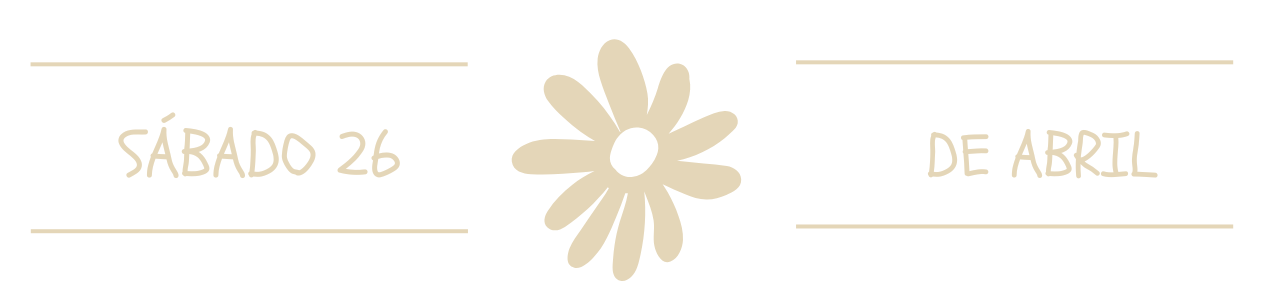
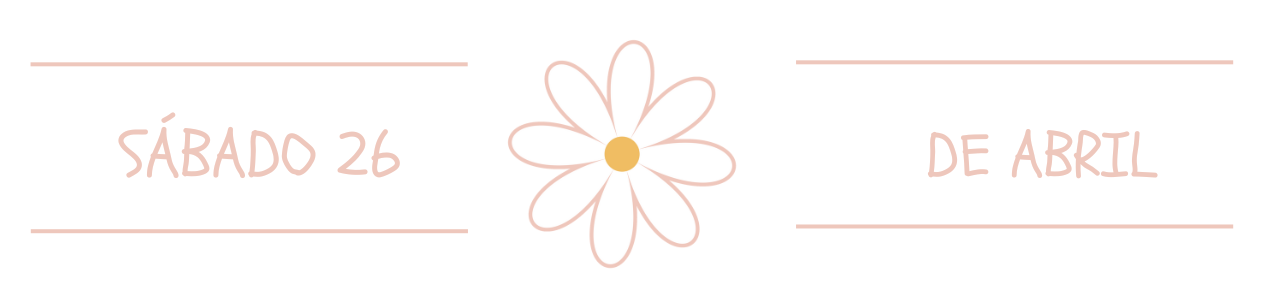
ac

Changed region(s): [[0.4011, 0.1169, 0.5862, 0.9058]]

diff --git a/style.css b/style.css
@@ -1,6 +1,6 @@
 :root {
     --color-principal:#fefdfa;
-    --color-secundario:#E4D6B8;
+    --color-secundario:#eec6bc;
     --color-terciario:#E4D6B8;
     --font-principal:'Schoolbell', cursive;
     --font-secundaria:'Nunito Sans', sans-serif;
@@ -187,7 +187,7 @@ audio::-webkit-media-controls-current-time-display {
  .boton2 {
     border: 1px solid var(--color-principal);
     background-color: var(--color-principal);
-    color: var(--color-secundario);
+    color: var(--color-terciario);
     padding: 10px 30PX;
     text-decoration: none;
     margin-top:0px;
@@ -203,7 +203,7 @@ audio::-webkit-media-controls-current-time-display {
  }
 .countdown {
     background-color: var(--color-principal);
-    color: var(--color-terciario);
+    color: var(--color-secundario);
     padding: 16px 0 0 0;
     text-align: center;
     height: 10vh;
@@ -219,7 +219,7 @@ audio::-webkit-media-controls-current-time-display {
 #clock {
     font-size: 1.4rem; /* Cambia a un tamaño mayor si lo necesitas */
     font-weight: lighter; /* Opcional, para hacerla más visible */
-    color:var(--color-terciario); /* Cambia el color si lo deseas */
+    color:var(--color-secundario); /* Cambia el color si lo deseas */
   }
 main {
     width: 100%;
@@ -324,7 +324,7 @@ footer {
     width: 100%;
     height: auto;
     margin: 0;
-    background-color: var(--color-terciario);
+    background-color: var(--color-secundario);
     color: var(--color-principal);
     padding: 40px 0;
     text-align: center;
